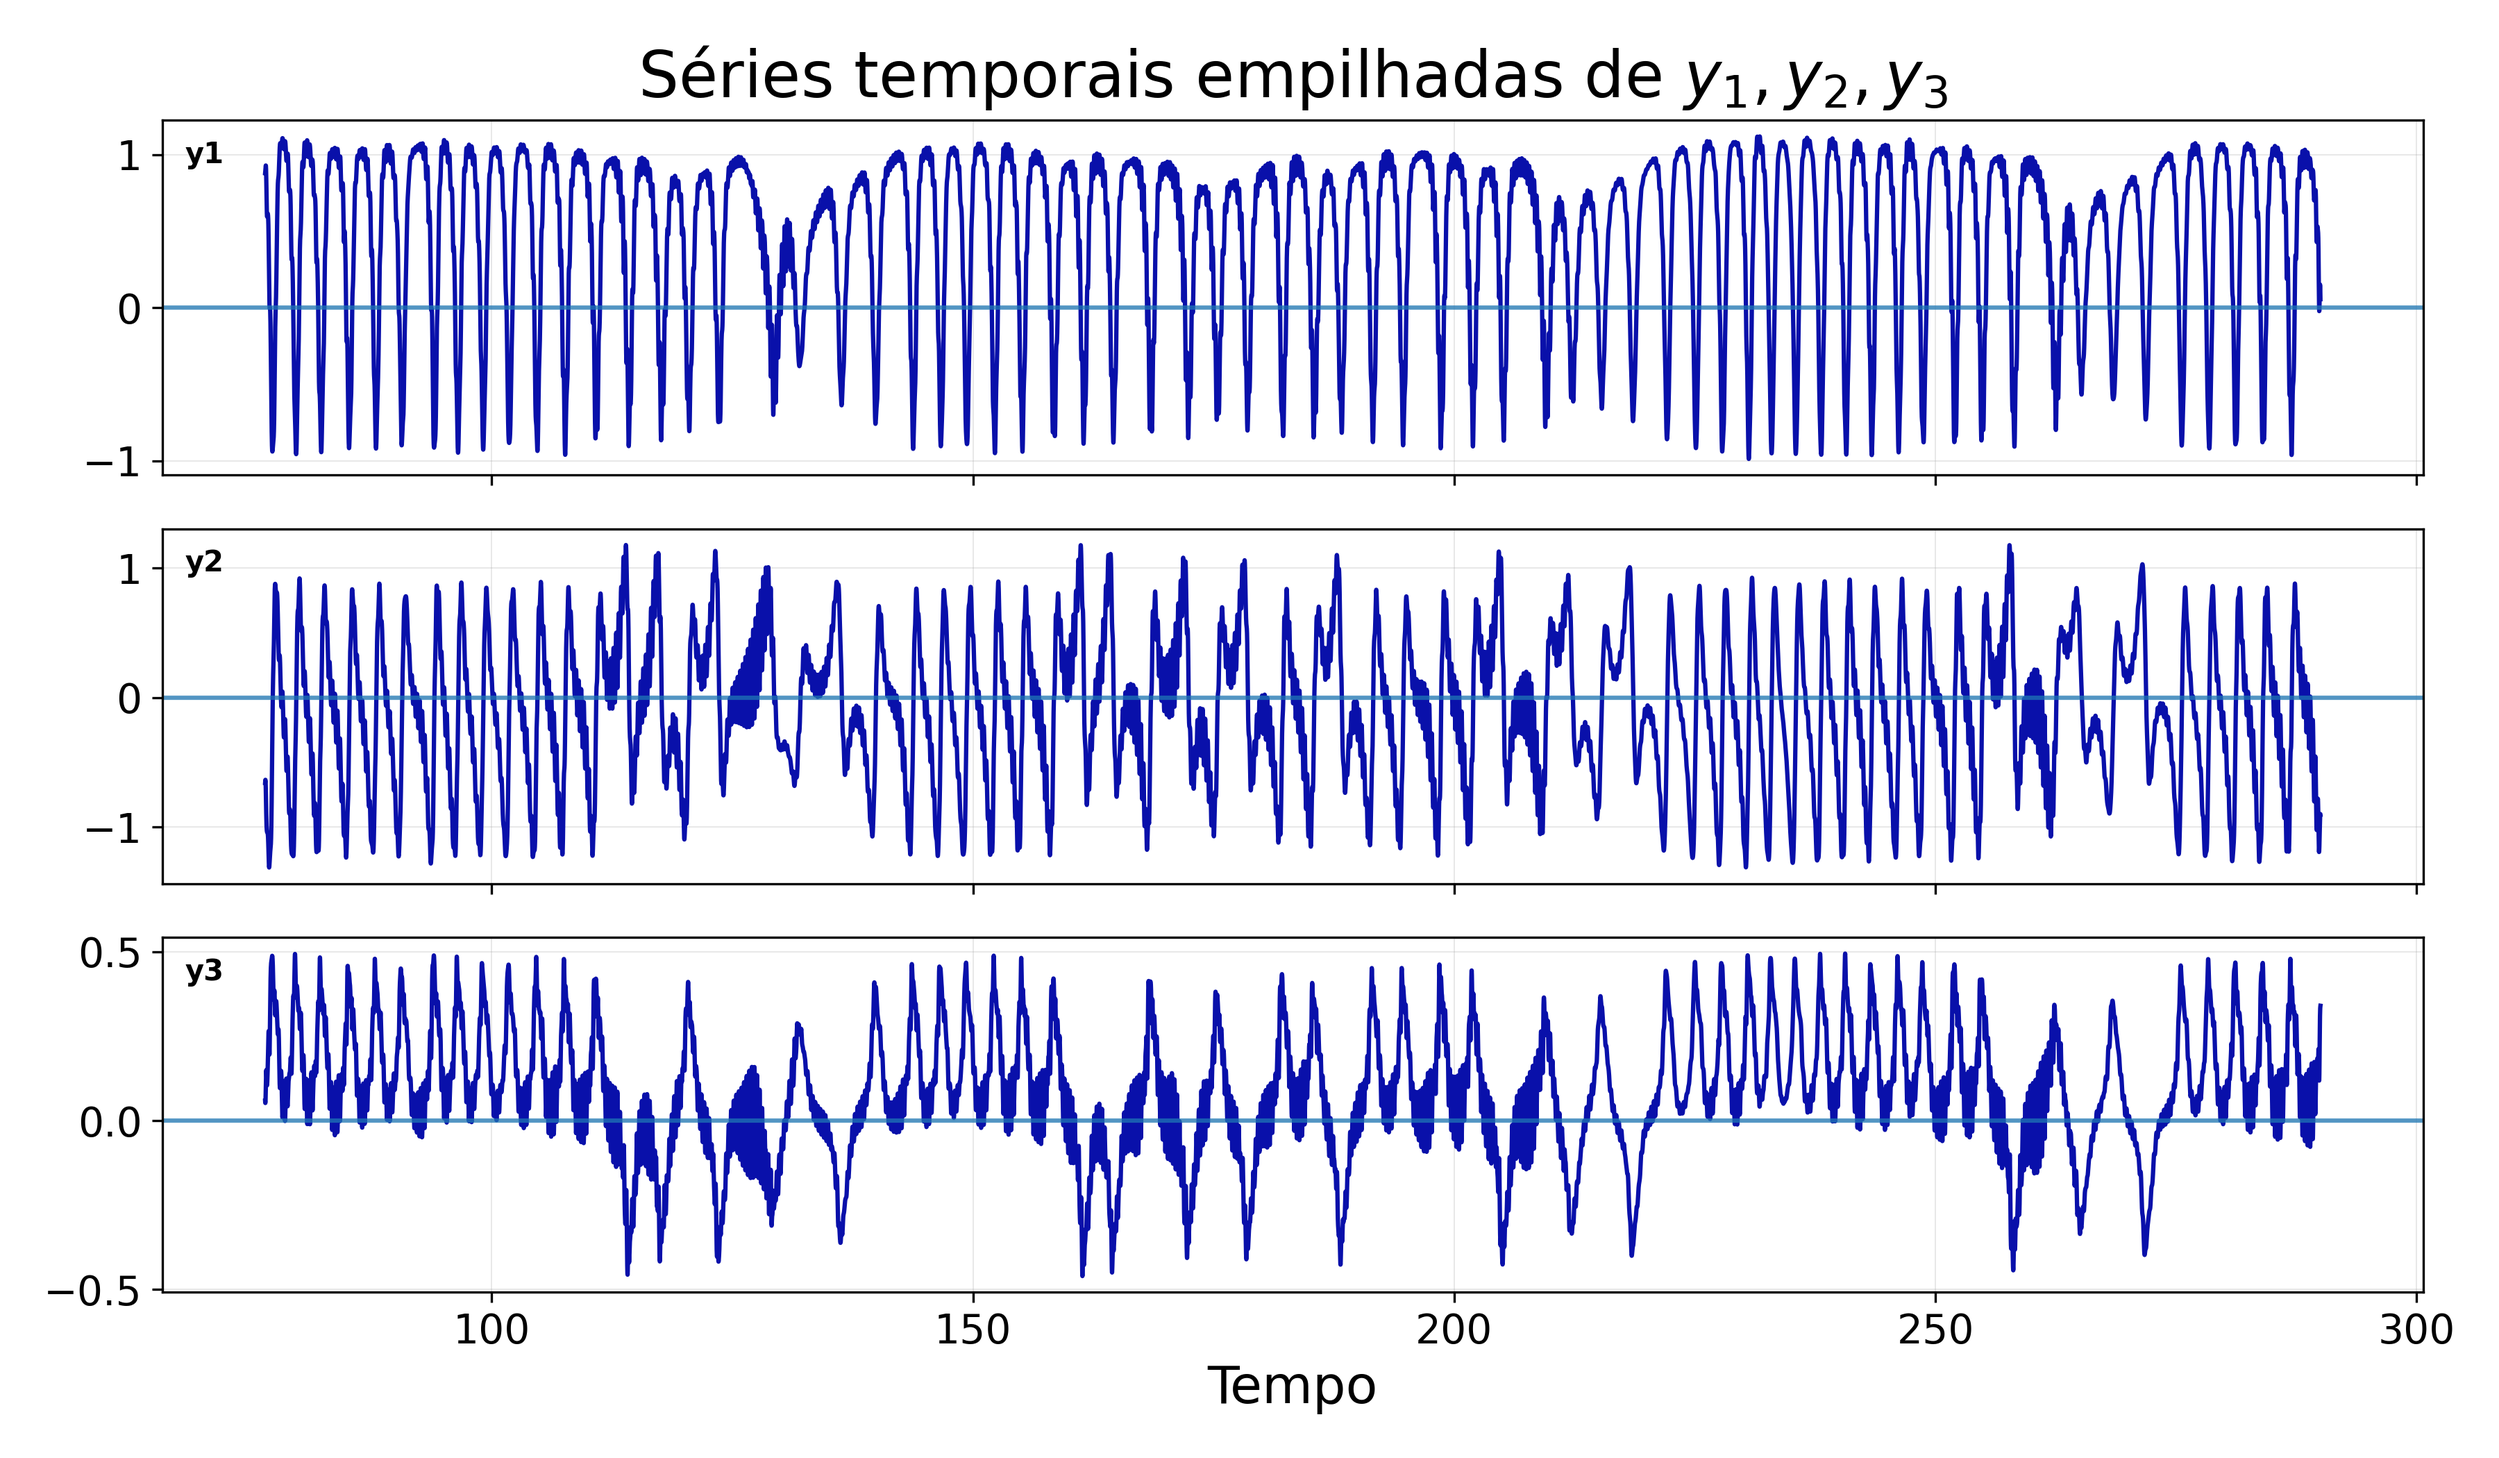
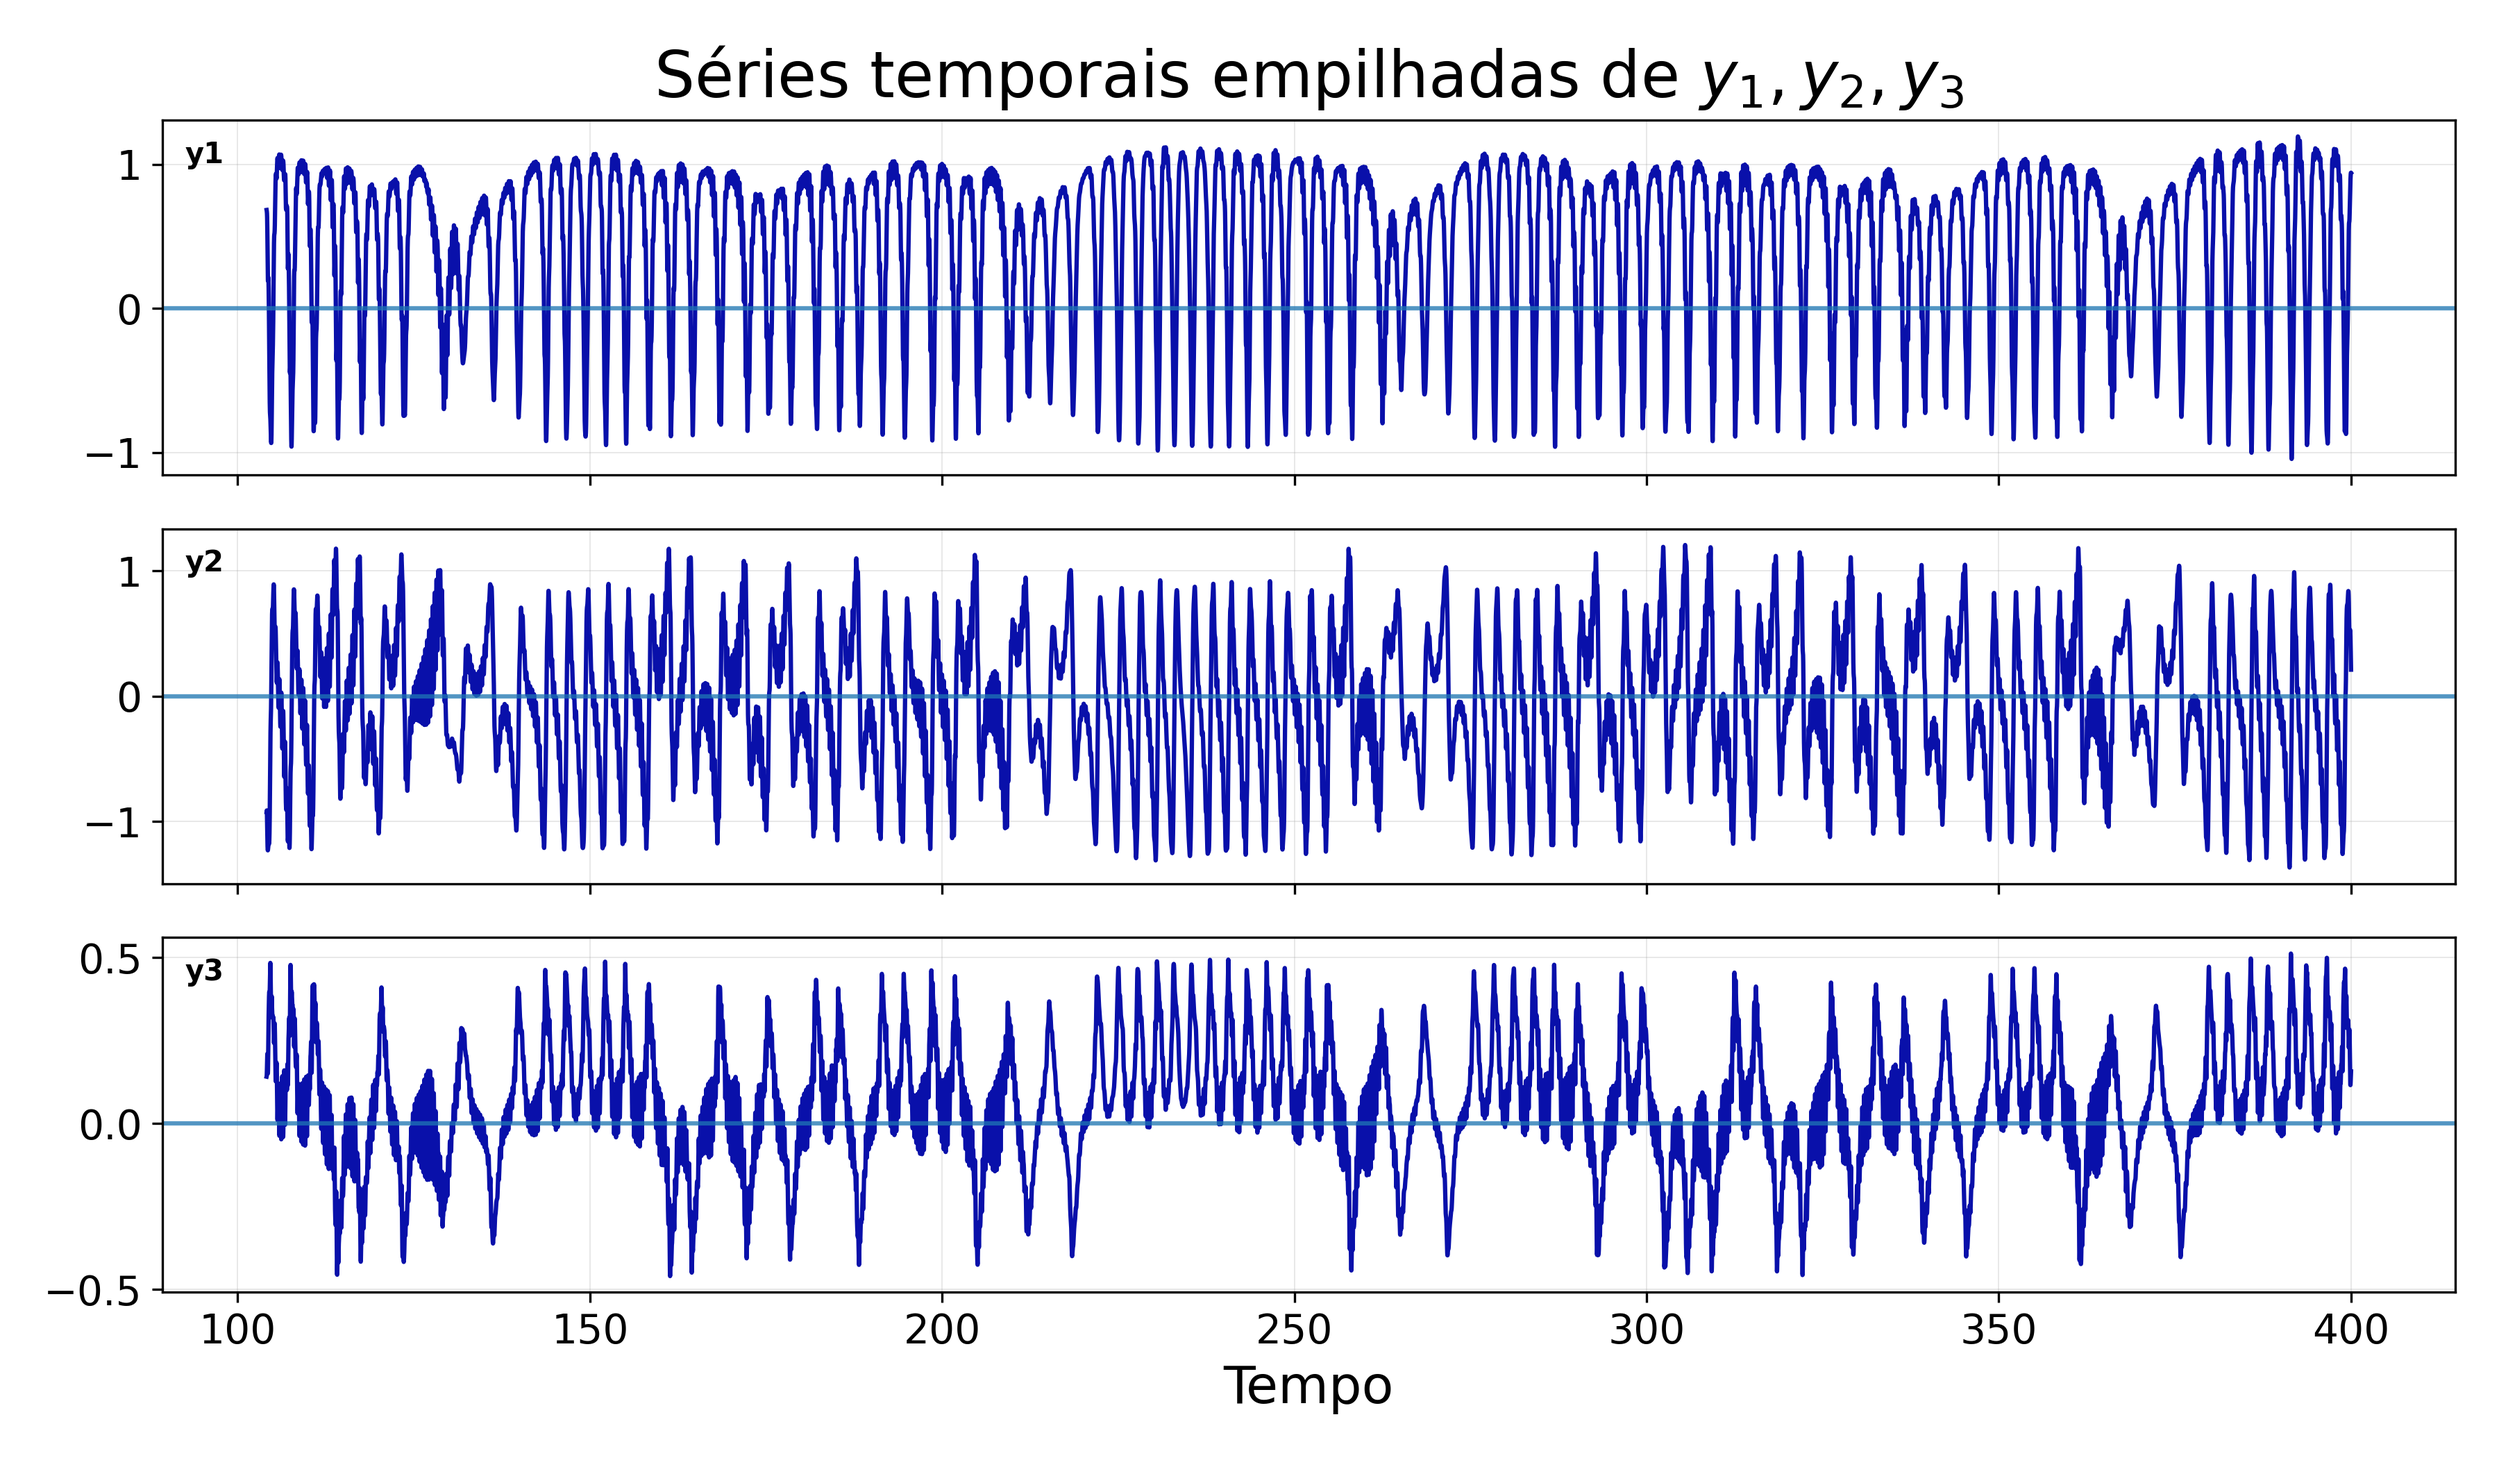
padronização

diff --git a/06_LORENZ_80/amplitudes.py b/06_LORENZ_80/amplitudes.py
@@ -4,6 +4,20 @@ import numpy as np
 import matplotlib.pyplot as plt
 from pathlib import Path
 
+# ---- MATPLOTLIB CONFIG ----
+plt.rcParams.update({
+    "font.size": 14,
+    "axes.titlesize": 22,
+    "axes.labelsize": 18,
+    "xtick.labelsize": 14,
+    "ytick.labelsize": 14,
+    "legend.fontsize": 14,
+    "lines.linewidth": 1.5,
+    "savefig.dpi": 300,
+    "figure.autolayout": True,
+    "axes.grid": True
+})
+
 # ---- CONFIG ----
 DATA_DIR = Path("data")
 OUTDIR   = Path("img")
@@ -32,12 +46,9 @@ def main():
     # Lê CSVs
     D = {m: read_df(DATA_DIR / f) for m, f in CSV_FILES.items()}
 
-    # Intervalo comum de tempo (interseção)
-    t0 = max(D[m]["time"].iloc[0] for m in D)
-    t1 = min(D[m]["time"].iloc[-1] for m in D)
-    if t1 <= t0:
-        t0 = min(D[m]["time"].iloc[0] for m in D)
-        t1 = max(D[m]["time"].iloc[-1] for m in D)
+    # Intervalo de tempo fixo
+    t0 = 200
+    t1 = 300
 
     # Limites comuns por variável
     ylims = {}
@@ -63,16 +74,16 @@ def main():
             ax.grid(True, linewidth=0.4, alpha=0.35)
             ax.set_ylim(*ylims[v])
             ax.set_xlim(t0, t1)
-            ax.text(0.005, 0.88, v, transform=ax.transAxes, fontsize=10, weight="bold")
-            ax.text(0.995, 0.88, m, transform=ax.transAxes, fontsize=10,
+            ax.text(0.02, 0.80, v, transform=ax.transAxes, fontsize=10, weight="bold")
+            ax.text(0.98, 0.80, m, transform=ax.transAxes, fontsize=10,
                     ha="right", color=COLORS[m])
             ax.tick_params(axis="y", labelsize=8, length=3)
             if row < nrows - 1:
                 ax.tick_params(axis="x", labelbottom=False)
             row += 1
 
-    axes[0].set_title("Séries temporais de $y$ para os modelos PE, QG e BE", pad=8, fontsize=12)
-    axes[-1].set_xlabel("time")
+    axes[0].set_title("Séries temporais de $y$ para os modelos PE, QG e BE", pad=8)
+    axes[-1].set_xlabel("Tempo")
     plt.subplots_adjust(hspace=0.12, top=0.95, bottom=0.07, left=0.07, right=0.985)
     fig.savefig(OUTFILE)
     plt.close(fig)

diff --git a/06_LORENZ_80/simulations.py b/06_LORENZ_80/simulations.py
@@ -57,7 +57,7 @@ def pe_simulate(x0, y0, z0, days):
     t_final = days * TIMESCALE_FACTOR
     t_span = (0.0, t_final)
 
-    print("Iniciando integração numérica para o modelo PE (não escalado)...")
+    print("Iniciando integração numérica para o modelo PE...")
     sol = solve_ivp(pe_model, t_span, initial_u, method="RK45", atol=1e-8, rtol=1e-6)
     print("Aguarde...")
 

diff --git a/06_LORENZ_80/initial_conditions.py b/06_LORENZ_80/initial_conditions.py
@@ -18,4 +18,4 @@ y0 = [0.1,0.1,0.1]
 z0 = [0.1,0.1,0.1]
 """
 
-days = 290
+days = 400
